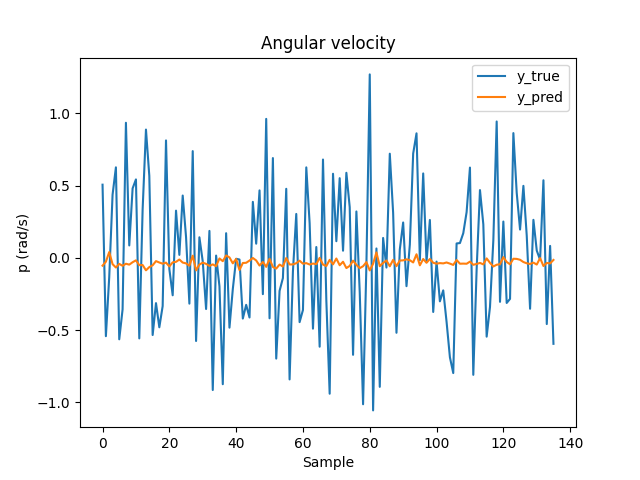
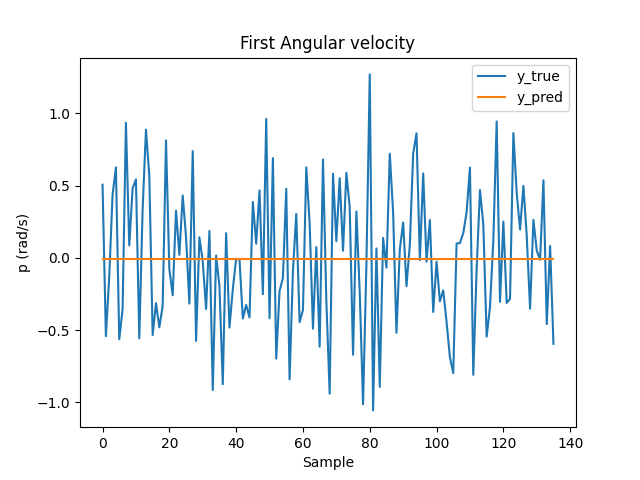
input bug fixed

Changed region(s): [[0.1562, 0.5312, 0.875, 0.5625], [0.375, 0.0625, 0.6562, 0.125]]

diff --git a/CNN_Py2.py b/CNN_Py2.py
@@ -85,7 +85,7 @@ else:
 # iperparametri
 lr = 0.2       # learning rate
 momentum = 0.001 # momentum
-max_epoch = 10       # numero di epoche
+max_epoch = 30       # numero di epoche
 batch_size = 20  # batch size
 scaler = GradScaler()
 
@@ -110,37 +110,43 @@ np.random.seed(seed)
 torch.manual_seed(seed)
 
 # Variabile per controllare se eseguire l'addestramento o meno
-#train_model = False
-train_model = True
-train_model = input('Eseguire addestramento? [Yes/No] ')
+train_model = input('Eseguire addestramento? [Yes/No] ').lower()
 
-while train_model not in ['Y', 'N', 'Yes', 'No']:
-    print("Input non valido. inserire 'Y', 'N', 'Yes' o 'No'.")
-    a = input("Eseguire addestramento ridotto? [Yes/No] ")
+while train_model not in ['y', 'n', 'yes', 'no']:
+    print("Input non valido. inserire 'y', 'n', 'yes' o 'no'.")
+    a = input("Eseguire addestramento ridotto? [Yes/No] ").lower()
 
-if train_model == 'Y' or 'Yes':
+if train_model == 'y' or train_model == 'yes':
     train_model = True
-elif train_model == 'N' or 'No':
+elif train_model == 'n' or train_model == 'no':
     train_model = False
 
 
 if train_model:
 # Riduzione del dataset
-    reduce = input('Eseguire addestramento ridotto? [Yes/No] ')
+    reduce = input('Eseguire addestramento ridotto? [Yes/No] ').lower()
 
-    while reduce not in ['Y', 'N', 'Yes', 'No']:
+    while reduce not in ['y', 'n', 'yes', 'no']:
         print("Input non valido. inserire 'Y', 'N', 'Yes' o 'No'.")
-        a = input("Eseguire addestramento ridotto? [Yes/No] ")
+        a = input("Eseguire addestramento ridotto? [Yes/No] ").lower()
 
-    if reduce == 'Y' or 'Yes':
+    if reduce == 'y' or reduce == 'yes':
         reduce = True
-    elif reduce == 'N' or 'No':
+    elif reduce == 'n' or reduce == 'no':
         reduce = False
 else: 
     reduce = False
 
 if reduce:
-    X_train, X_test, y_train, y_test = train_test_split(X, y, test_size=0.95, random_state=seed)
+    r_input=input("Inserire percentuale di riduzione del dataset: [0.01:0.99] ")
+    try:
+        r = float(r_input)
+        r2=100-r*100
+        print(f'Dataset utilizzato: {r2} %')
+    except ValueError:
+        print('Input non valido. Inserire un numero valido in formato float.')
+
+    X_train, X_test, y_train, y_test = train_test_split(X, y, test_size=r, random_state=seed)
     inputs = torch.from_numpy(X_train).unsqueeze(1).float()
     labels = torch.from_numpy(y_train).float()
 else:

diff --git a/usage_NN.py b/usage_NN.py
@@ -31,7 +31,7 @@ torch.manual_seed(seed)
 
 # Divisione del dataset in addestramento e verifica in modo casuale
 if P2.reduce:
-    y_train, y_test = train_test_split(y, test_size=0.95, random_state=seed)
+    y_train, y_test = train_test_split(y, test_size=P2.r, random_state=seed)
     print('y_true = ', y_train.shape)
 else:
     y_train, y_test = train_test_split(y, test_size=0.95, random_state=seed)
@@ -45,9 +45,13 @@ print('y_true = ', y_true.shape)
 
 # titoli e voci
 title=[]
-title.append('one')
-title.append('two')
-title.append('three')
+title.append('First')
+title.append('Second')
+title.append('Third')
+title2=[]
+title2.append('First')
+title2.append('Second')
+title2.append('Third')
 angle=[]
 angle.append('θ')
 angle.append('φ')
@@ -66,10 +70,10 @@ for i in range(6):
     plt.xlabel('Sample')
     if i < 3:
         plt.ylabel(f'{vel_ang.pop(0)} (rad/s)')
-        plt.title("Angular velocity")
+        plt.title(f'{title.pop(0)} Angular velocity')
     else:
         plt.ylabel(f'{angle.pop(0)} (rad)')
-        plt.title('Euler Angle')
+        plt.title(f'{title2.pop(0)} Euler Angle')
 
     plt.legend()
     nome_file=f"grafico_{i}.png"
